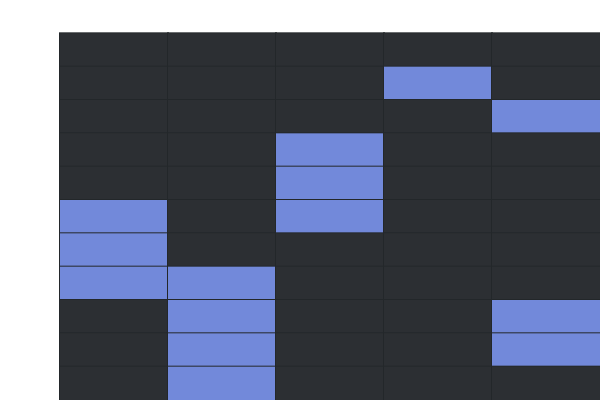
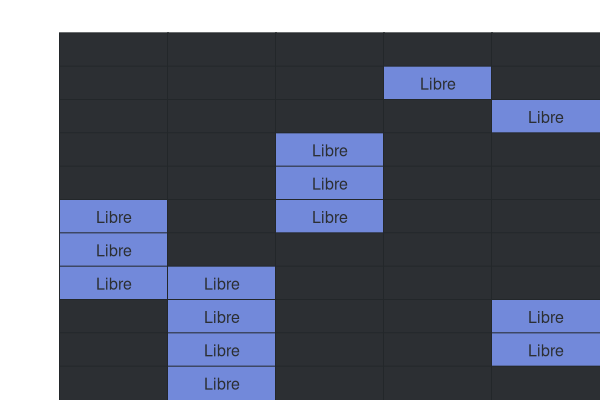
logger

diff --git a/src/schedule.ts b/src/schedule.ts
@@ -1,4 +1,4 @@
-import { TIMESTAMP_SIZE } from './gui/constants' 
+import { TIMESTAMP_SIZE, CANVAS_WIDTH, CANVAS_HEIGHT, } from './gui/constants' 
 
 import addCellsAndDays from './gui/addCellsAndDays'
 import addTimestamps from './gui/addTimestamps'
@@ -16,19 +16,17 @@ export function getSchedule(): Schedule {
 	const file = readFileSync('./data/schedule.json', 'utf-8');
 	const data:Schedule = JSON.parse(file);
 
-	const width = 600;
-	const height = 400;
-
+	// Get sample room schedule to calculate length
 	let values = Object.values(Object.values(data)[0].raw);
 
 	// cells dimentsions
-	const cellWidth = (width-TIMESTAMP_SIZE)/(values.length);
-	const cellHeight = height/(values[0].length+1);
+	const cellWidth = (CANVAS_WIDTH-TIMESTAMP_SIZE)/values.length;
+	const cellHeight = CANVAS_HEIGHT/(values[0].length+1);
 
 	for (let room in data) {
 		
 		// Create the canvas & context
-		const canvas = createCanvas(width, height); 
+		const canvas = createCanvas(CANVAS_WIDTH, CANVAS_HEIGHT); 
 		let ctx = canvas.getContext('2d');	
 		
 		// Add gui items to canvas
@@ -45,6 +43,8 @@ export function getSchedule(): Schedule {
 		// Save image to png file
 		writeFileSync(filename, buffer);
 	}
+
+	// Write new json file
 	writeFileSync('./data/schedule.json',JSON.stringify(data), 'utf-8');
 	return data;
 }

diff --git a/src/commands/schedule.ts b/src/commands/schedule.ts
@@ -4,17 +4,19 @@ import SCHEDULE from '../schedule'
 import { Message, MessageAttachment } from 'discord.js'
 
 export function scheduleCommand(msg: Message, args: string[]) {
-	// Abort if specified class is not found
+	// Abort if no room specified
 	if (args[0] === undefined) {
 		msg.channel.send(`Veuilliez specifier un local. ex: \`${CONFIG.PREFIX}horraire C3537\``);
 		return;	
 	}
 
+	// Abort if room not found
 	if (SCHEDULE[args[0]] === undefined) {
 		msg.channel.send(`Votre local spécifiée \`${args[0]}\` n'existe pas`);
 		return;
 	}
 
+	// Send schedule image which was generated at startup 
 	const scheduleImage = new MessageAttachment(SCHEDULE[args[0]].imagePath);
 
 	msg.channel.send({files: [scheduleImage]});

diff --git a/src/logger/index.ts b/src/logger/index.ts
@@ -1,0 +1,23 @@
+import { Message } from 'discord.js'
+import { appendFileSync } from 'fs'
+
+class Logger {
+	constructor() {}
+	static getDate() {
+		let d = new Date();
+		return `${d.getDay()}-${d.getMonth()}-${d.getFullYear()}`
+	}
+
+	static log(text:string) {
+		console.log(text);
+		appendFileSync(`./logs/log-${Logger.getDate()}.log`, `${text}\n`);
+	} 
+
+	static command(msg: Message) {
+		let content = `[${msg.author.username}] ${msg.content}`;
+		console.log(content);
+		appendFileSync(`./logs/log-${Logger.getDate()}.log`, `${content}\n`);
+	}
+}
+
+export default Logger;

diff --git a/src/index.ts b/src/index.ts
@@ -1,6 +1,7 @@
 import CONFIG from './config'
 import commands from './commands/index'
 
+import Logger from './logger'
 import { isSelf } from './utils/isSelf'
 import { parse, ParseResult } from './utils/parse'
 
@@ -29,6 +30,7 @@ bot.on('messageCreate', (msg: Message) => {
 
 	// Run the command
 	commands[res.name].action(msg, res.args);
+	Logger.command(msg);
 });
 
 bot.login(CONFIG.TOKEN);

diff --git a/src/gui/addCellsAndDays.ts b/src/gui/addCellsAndDays.ts
@@ -32,6 +32,15 @@ export default function addCellsAndDays(
 				cellWidth,
 				cellHeight
 			);
+
+			ctx.fillStyle = COLORS.darkgrey;
+			if (room.raw[day][i]) {
+				ctx.fillText(
+					"Libre",
+					j*cellWidth+TIMESTAMP_SIZE+(cellWidth/2),
+					i*cellHeight+cellHeight+(cellHeight/1.45)
+				);
+			}
 		}
 		j++;
 	}

diff --git a/src/gui/constants.ts b/src/gui/constants.ts
@@ -3,6 +3,9 @@ export const PERIOD_DURATION = 50;
 export const PERIOD_BREAK = 5;
 export const TIMESTAMP_SIZE = 60;
 
+export const CANVAS_WIDTH = 600;
+export const CANVAS_HEIGHT = 400;
+
 export const COLORS = {
 	blue: '#7289da',
 	white: '#ffffff',
